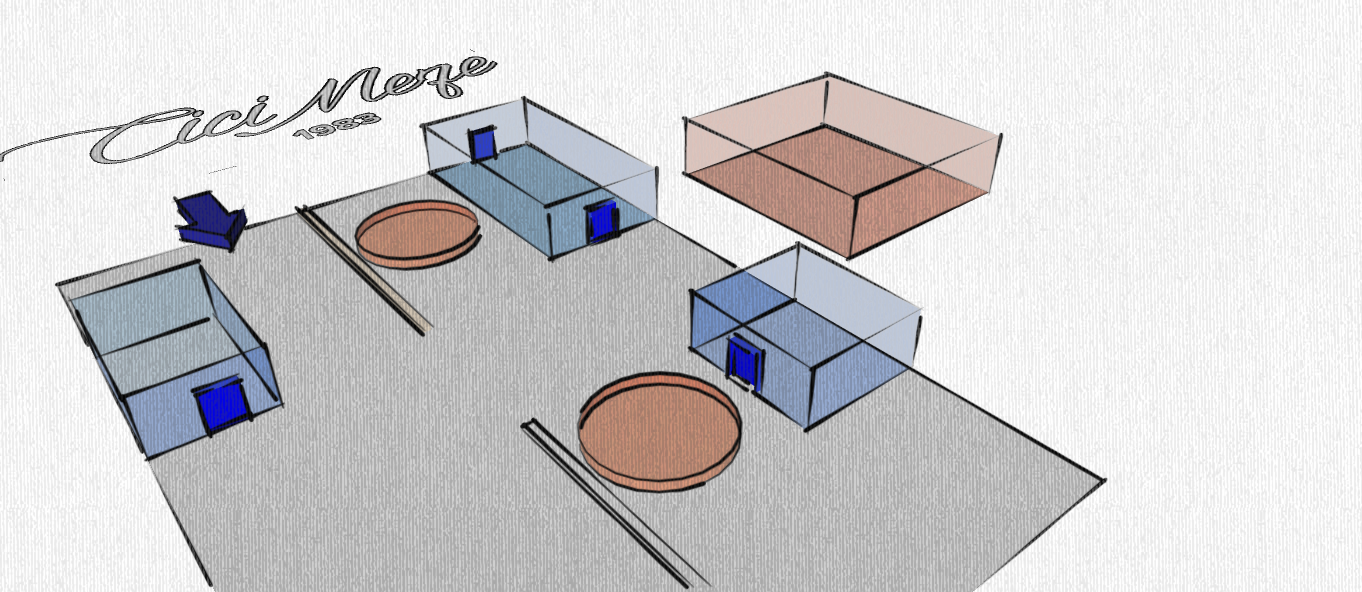
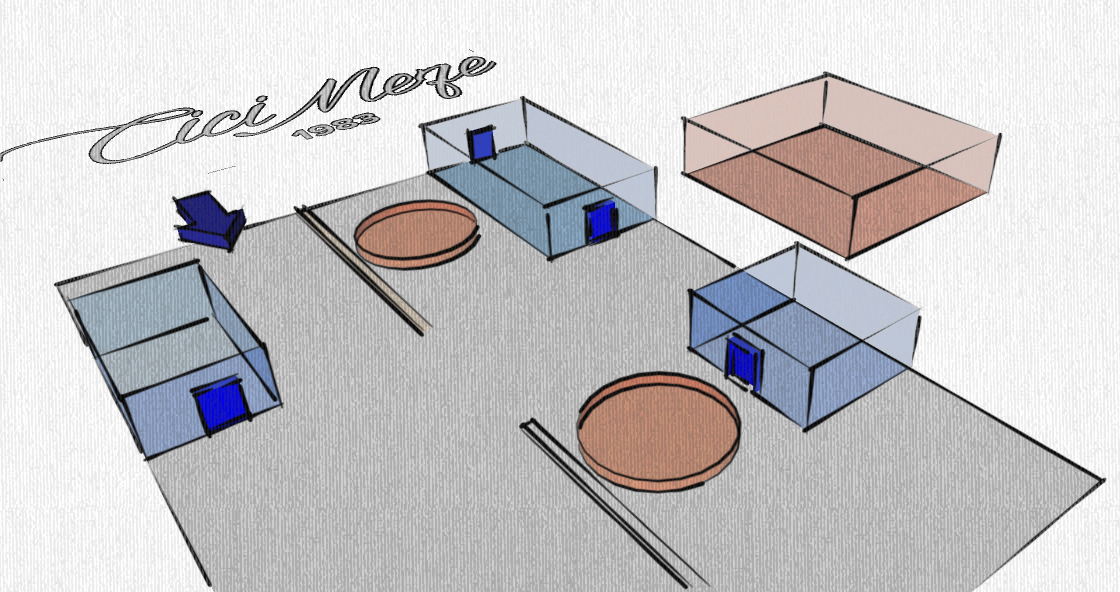
cm scada layout is updated

diff --git a/app/partials/scada-edit/widget.css b/app/partials/scada-edit/widget.css
@@ -52,6 +52,8 @@
   white-space: nowrap;
   display: inline-block;
   position: relative; /* this is extremely important for relative widget positioning */
+  left: 0;
+  bottom: 0; 
   margin: 0;
   padding: 0;
 }
